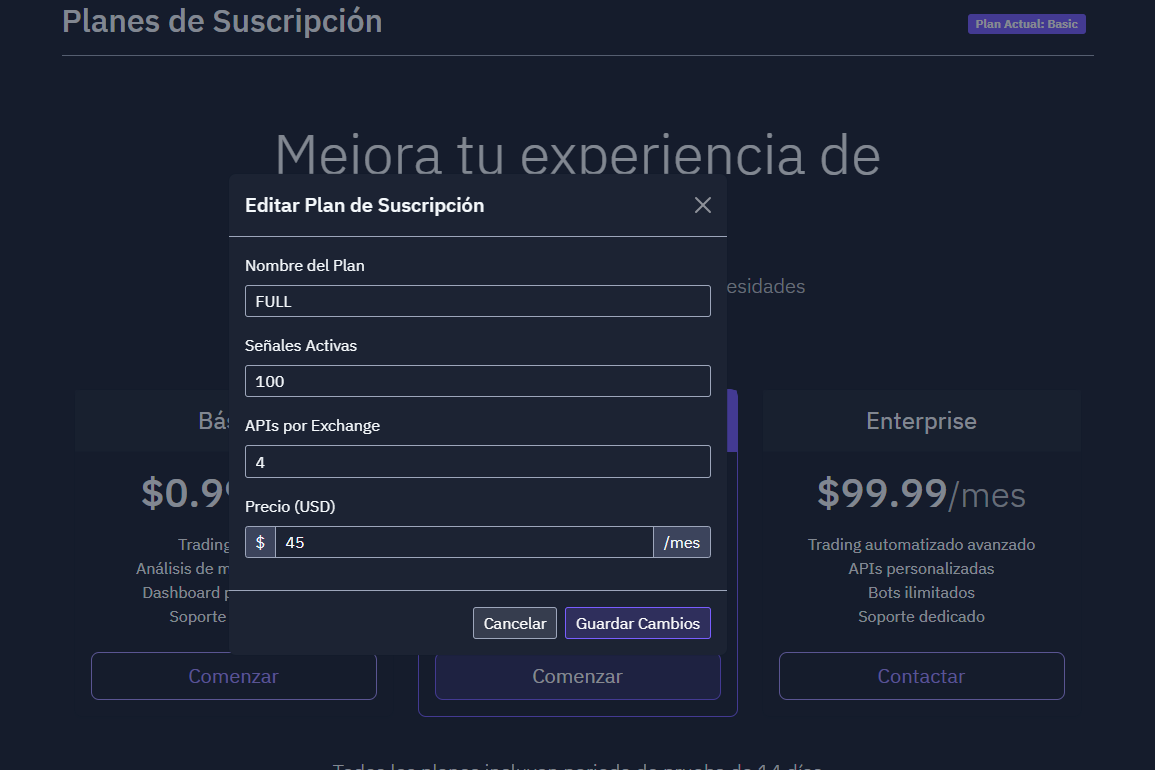
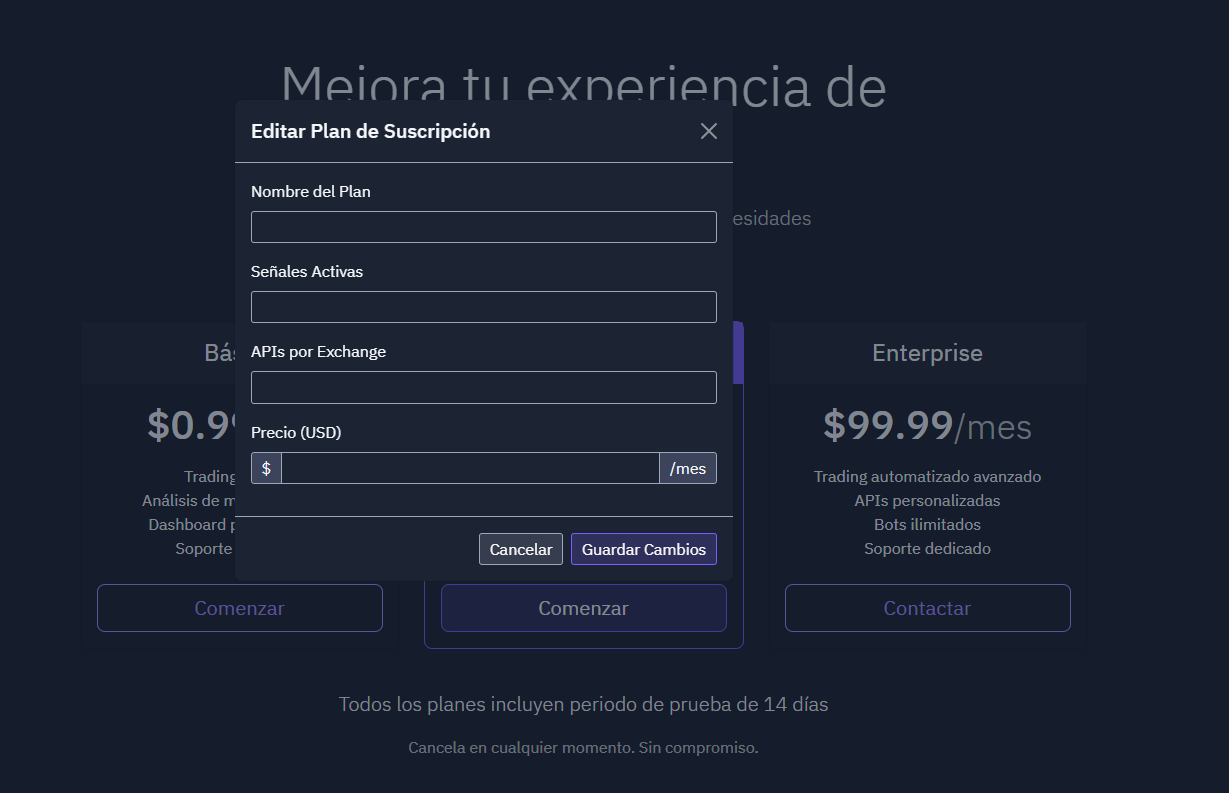
Agent query: ¿Puedes acceder al formulario de edición de planes y ver todos los campos correctamente? ¿El formulario se carga con los datos del plan seleccionado?
Enhance subscription plan management: Add comprehensive plan configuration options and improve UI.

Screenshot: https://storage.googleapis.com/screenshot-production-us-central1/e9dd3937-21b8-446a-bd67-a1e5fcb2e183/01db929a-18a8-4134-86af-bbf248640d96.jpg

diff --git a/app/templates/subscription/plans.html b/app/templates/subscription/plans.html
@@ -152,10 +152,85 @@
             <div class="modal-body">
                 <form id="editPlanForm">
                     <input type="hidden" id="planId" name="plan_id">
+                    <!-- Datos básicos -->
                     <div class="mb-3">
                         <label class="form-label">Nombre del Plan</label>
                         <input type="text" class="form-control" id="planName" name="name" required>
                     </div>
+                    <div class="mb-3">
+                        <label class="form-label">Descripción</label>
+                        <textarea class="form-control" id="planDescription" name="description" rows="3"></textarea>
+                    </div>
+                    <div class="mb-3">
+                        <label class="form-label">Precio (USD)</label>
+                        <div class="input-group">
+                            <span class="input-group-text">$</span>
+                            <input type="number" class="form-control" id="planPrice" name="price" required step="0.01">
+                            <select class="form-select" id="planInterval" name="interval" style="max-width: 100px;">
+                                <option value="month">/mes</option>
+                                <option value="year">/año</option>
+                            </select>
+                        </div>
+                    </div>
+                    
+                    <!-- Características de Trading -->
+                    <h5 class="mt-4">Características de Trading</h5>
+                    <div class="mb-3">
+                        <div class="form-check">
+                            <input type="checkbox" class="form-check-input" id="hasManualTrading" name="has_manual_trading">
+                            <label class="form-check-label">Trading Manual</label>
+                        </div>
+                        <div class="form-check">
+                            <input type="checkbox" class="form-check-input" id="hasAutomatedTrading" name="has_automated_trading">
+                            <label class="form-check-label">Trading Automatizado</label>
+                        </div>
+                        <div class="form-check">
+                            <input type="checkbox" class="form-check-input" id="hasAdvancedTrading" name="has_advanced_trading">
+                            <label class="form-check-label">Trading Avanzado</label>
+                        </div>
+                    </div>
+                    
+                    <!-- Análisis y Dashboard -->
+                    <div class="mb-3">
+                        <div class="form-check">
+                            <input type="checkbox" class="form-check-input" id="hasBasicAnalysis" name="has_basic_analysis">
+                            <label class="form-check-label">Análisis Básico</label>
+                        </div>
+                        <div class="form-check">
+                            <input type="checkbox" class="form-check-input" id="hasAdvancedAnalysis" name="has_advanced_analysis">
+                            <label class="form-check-label">Análisis Avanzado</label>
+                        </div>
+                        <div class="form-check">
+                            <input type="checkbox" class="form-check-input" id="hasCustomDashboard" name="has_custom_dashboard">
+                            <label class="form-check-label">Dashboard Personalizado</label>
+                        </div>
+                    </div>
+                    
+                    <!-- Bots y API -->
+                    <h5 class="mt-4">Bots y API</h5>
+                    <div class="mb-3">
+                        <label class="form-label">Número Máximo de Bots</label>
+                        <input type="number" class="form-control" id="maxBots" name="max_bots" min="1">
+                    </div>
+                    <div class="form-check">
+                        <input type="checkbox" class="form-check-input" id="hasCustomBots" name="has_custom_bots">
+                        <label class="form-check-label">Bots Personalizados</label>
+                    </div>
+                    <div class="form-check">
+                        <input type="checkbox" class="form-check-input" id="hasUnlimitedBots" name="has_unlimited_bots">
+                        <label class="form-check-label">Bots Ilimitados</label>
+                    </div>
+                    <div class="form-check">
+                        <input type="checkbox" class="form-check-input" id="hasApiAccess" name="has_api_access">
+                        <label class="form-check-label">Acceso a API</label>
+                    </div>
+                    <div class="form-check mb-3">
+                        <input type="checkbox" class="form-check-input" id="hasCustomApis" name="has_custom_apis">
+                        <label class="form-check-label">APIs Personalizadas</label>
+                    </div>
+                    
+                    <!-- Exchange Permissions -->
+                    <h5 class="mt-4">Permisos de Exchange</h5>
                     <div class="mb-3">
                         <label class="form-label">Señales Activas</label>
                         <input type="number" class="form-control" id="activeSignals" name="active_signals" required min="1">
@@ -164,13 +239,27 @@
                         <label class="form-label">APIs por Exchange</label>
                         <input type="number" class="form-control" id="apisPerExchange" name="apis_per_exchange" required min="1">
                     </div>
+                    
+                    <!-- Configuración del Sistema -->
+                    <h5 class="mt-4">Configuración del Sistema</h5>
                     <div class="mb-3">
-                        <label class="form-label">Precio (USD)</label>
-                        <div class="input-group">
-                            <span class="input-group-text">$</span>
-                            <input type="number" class="form-control" id="planPrice" name="price" required step="0.01">
-                            <span class="input-group-text">/mes</span>
-                        </div>
+                        <label class="form-label">Nivel de Soporte</label>
+                        <select class="form-select" id="supportLevel" name="support_level">
+                            <option value="email">Email</option>
+                            <option value="priority">Prioritario</option>
+                            <option value="dedicated">Dedicado</option>
+                        </select>
+                    </div>
+                    <div class="mb-3">
+                        <label class="form-label">Días de Prueba</label>
+                        <input type="number" class="form-control" id="trialDays" name="trial_days" value="14" min="0">
+                    </div>
+                    <div class="mb-3">
+                        <label class="form-label">Tipo de Cancelación</label>
+                        <select class="form-select" id="cancellationType" name="cancellation_type">
+                            <option value="anytime">En cualquier momento</option>
+                            <option value="end_of_period">Fin del período</option>
+                        </select>
                     </div>
                 </form>
             </div>
@@ -189,11 +278,38 @@ function editPlan(planId) {
     fetch(`/admin/subscription/plans/${planId}`)
         .then(response => response.json())
         .then(data => {
+            // Datos básicos
             document.getElementById('planId').value = planId;
             document.getElementById('planName').value = data.name;
+            document.getElementById('planDescription').value = data.description;
+            document.getElementById('planPrice').value = data.price;
+            document.getElementById('planInterval').value = data.interval;
+            
+            // Características de Trading
+            document.getElementById('hasManualTrading').checked = data.has_manual_trading;
+            document.getElementById('hasAutomatedTrading').checked = data.has_automated_trading;
+            document.getElementById('hasAdvancedTrading').checked = data.has_advanced_trading;
+            
+            // Análisis y Dashboard
+            document.getElementById('hasBasicAnalysis').checked = data.has_basic_analysis;
+            document.getElementById('hasAdvancedAnalysis').checked = data.has_advanced_analysis;
+            document.getElementById('hasCustomDashboard').checked = data.has_custom_dashboard;
+            
+            // Bots y API
+            document.getElementById('maxBots').value = data.max_bots;
+            document.getElementById('hasCustomBots').checked = data.has_custom_bots;
+            document.getElementById('hasUnlimitedBots').checked = data.has_unlimited_bots;
+            document.getElementById('hasApiAccess').checked = data.has_api_access;
+            document.getElementById('hasCustomApis').checked = data.has_custom_apis;
+            
+            // Exchange Permissions
             document.getElementById('activeSignals').value = data.active_signals;
             document.getElementById('apisPerExchange').value = data.apis_per_exchange;
-            document.getElementById('planPrice').value = data.price;
+            
+            // Sistema
+            document.getElementById('supportLevel').value = data.support_level;
+            document.getElementById('trialDays').value = data.trial_days;
+            document.getElementById('cancellationType').value = data.cancellation_type;
             
             const modal = new bootstrap.Modal(document.getElementById('editPlanModal'));
             modal.show();

diff --git a/app/routes/admin.py b/app/routes/admin.py
@@ -439,7 +439,29 @@ def update_plan(plan_id):
         
         # Actualizar datos básicos del plan
         plan.name = request.form.get('name')
+        plan.description = request.form.get('description')
         plan.price = int(float(request.form.get('price')) * 100)  # Convertir a centavos
+        plan.interval = request.form.get('interval', 'month')
+        
+        # Características básicas
+        plan.has_manual_trading = request.form.get('has_manual_trading') == 'on'
+        plan.has_automated_trading = request.form.get('has_automated_trading') == 'on'
+        plan.has_advanced_trading = request.form.get('has_advanced_trading') == 'on'
+        plan.has_basic_analysis = request.form.get('has_basic_analysis') == 'on'
+        plan.has_advanced_analysis = request.form.get('has_advanced_analysis') == 'on'
+        plan.has_custom_dashboard = request.form.get('has_custom_dashboard') == 'on'
+        
+        # Características de bots y API
+        plan.max_bots = int(request.form.get('max_bots', 1))
+        plan.has_custom_bots = request.form.get('has_custom_bots') == 'on'
+        plan.has_unlimited_bots = request.form.get('has_unlimited_bots') == 'on'
+        plan.has_api_access = request.form.get('has_api_access') == 'on'
+        plan.has_custom_apis = request.form.get('has_custom_apis') == 'on'
+        
+        # Soporte y sistema
+        plan.support_level = request.form.get('support_level', 'email')
+        plan.trial_days = int(request.form.get('trial_days', 14))
+        plan.cancellation_type = request.form.get('cancellation_type', 'anytime')
         
         # Actualizar o crear permisos de exchange
         exchange_permission = plan.exchange_permission
@@ -447,11 +469,12 @@ def update_plan(plan_id):
             exchange_permission = ExchangePermission(subscription_plan_id=plan.id)
             db.session.add(exchange_permission)
         
-        exchange_permission.active_signals = int(request.form.get('active_signals'))
-        exchange_permission.apis_per_exchange = int(request.form.get('apis_per_exchange'))
+        exchange_permission.active_signals = int(request.form.get('active_signals', 1))
+        exchange_permission.apis_per_exchange = int(request.form.get('apis_per_exchange', 1))
         
         db.session.commit()
         
+        flash('Plan actualizado exitosamente', 'success')
         return jsonify({'success': True})
     except ValueError as e:
         db.session.rollback()
